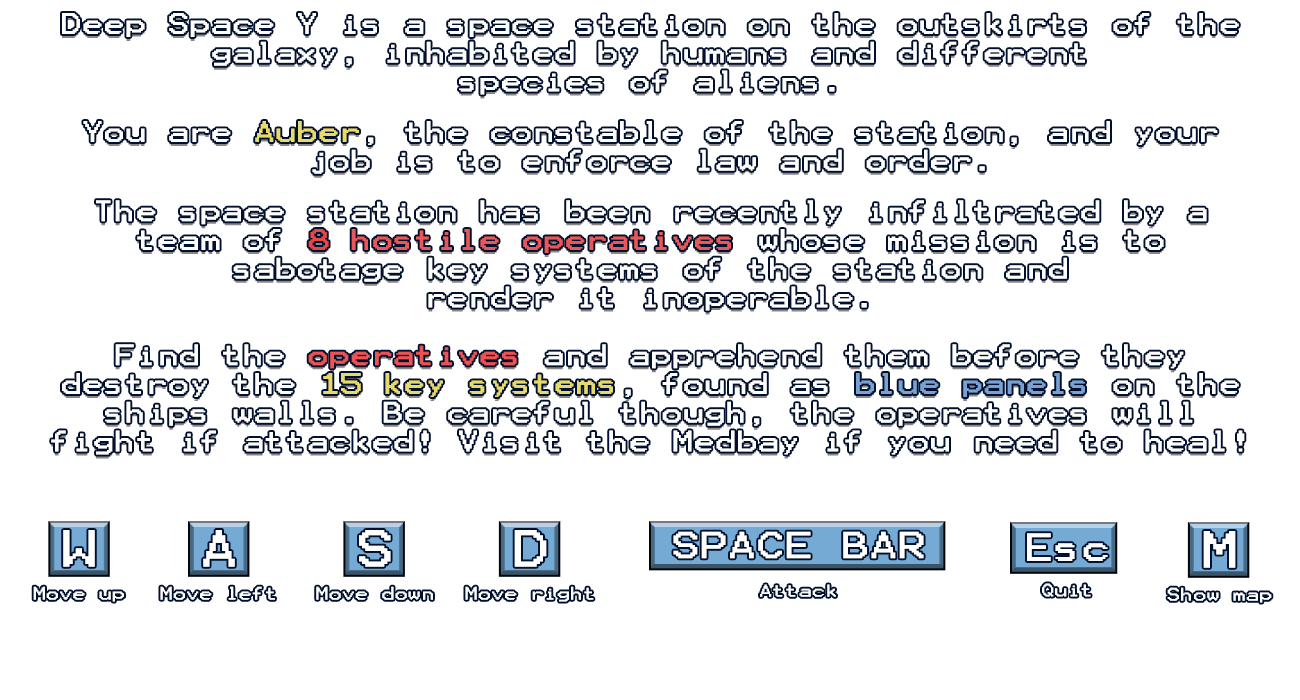
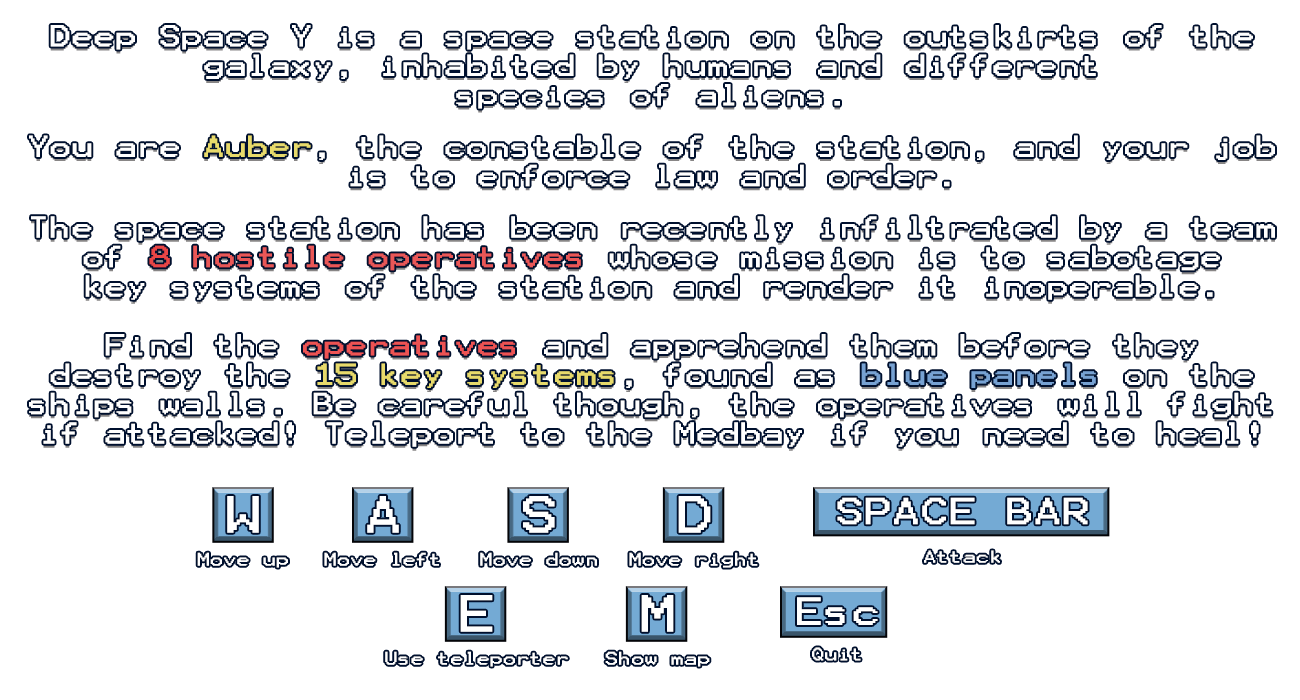
Instruction changes
- changed teleporter use button to E
- added E button on instructions screen to accommodate new feature

diff --git a/core/src/com/group4/HUD/HUD.java b/core/src/com/group4/HUD/HUD.java
@@ -61,7 +61,7 @@ public class HUD extends Stage {
             public boolean keyTyped(InputEvent event, char key)
             {
                 //if the letter to is typed the show the teleporter dialouge
-                if(key == 't'){
+                if(key == 'e'){
                     teleporterDialog.show(getStage());
                     return true;
                 }
